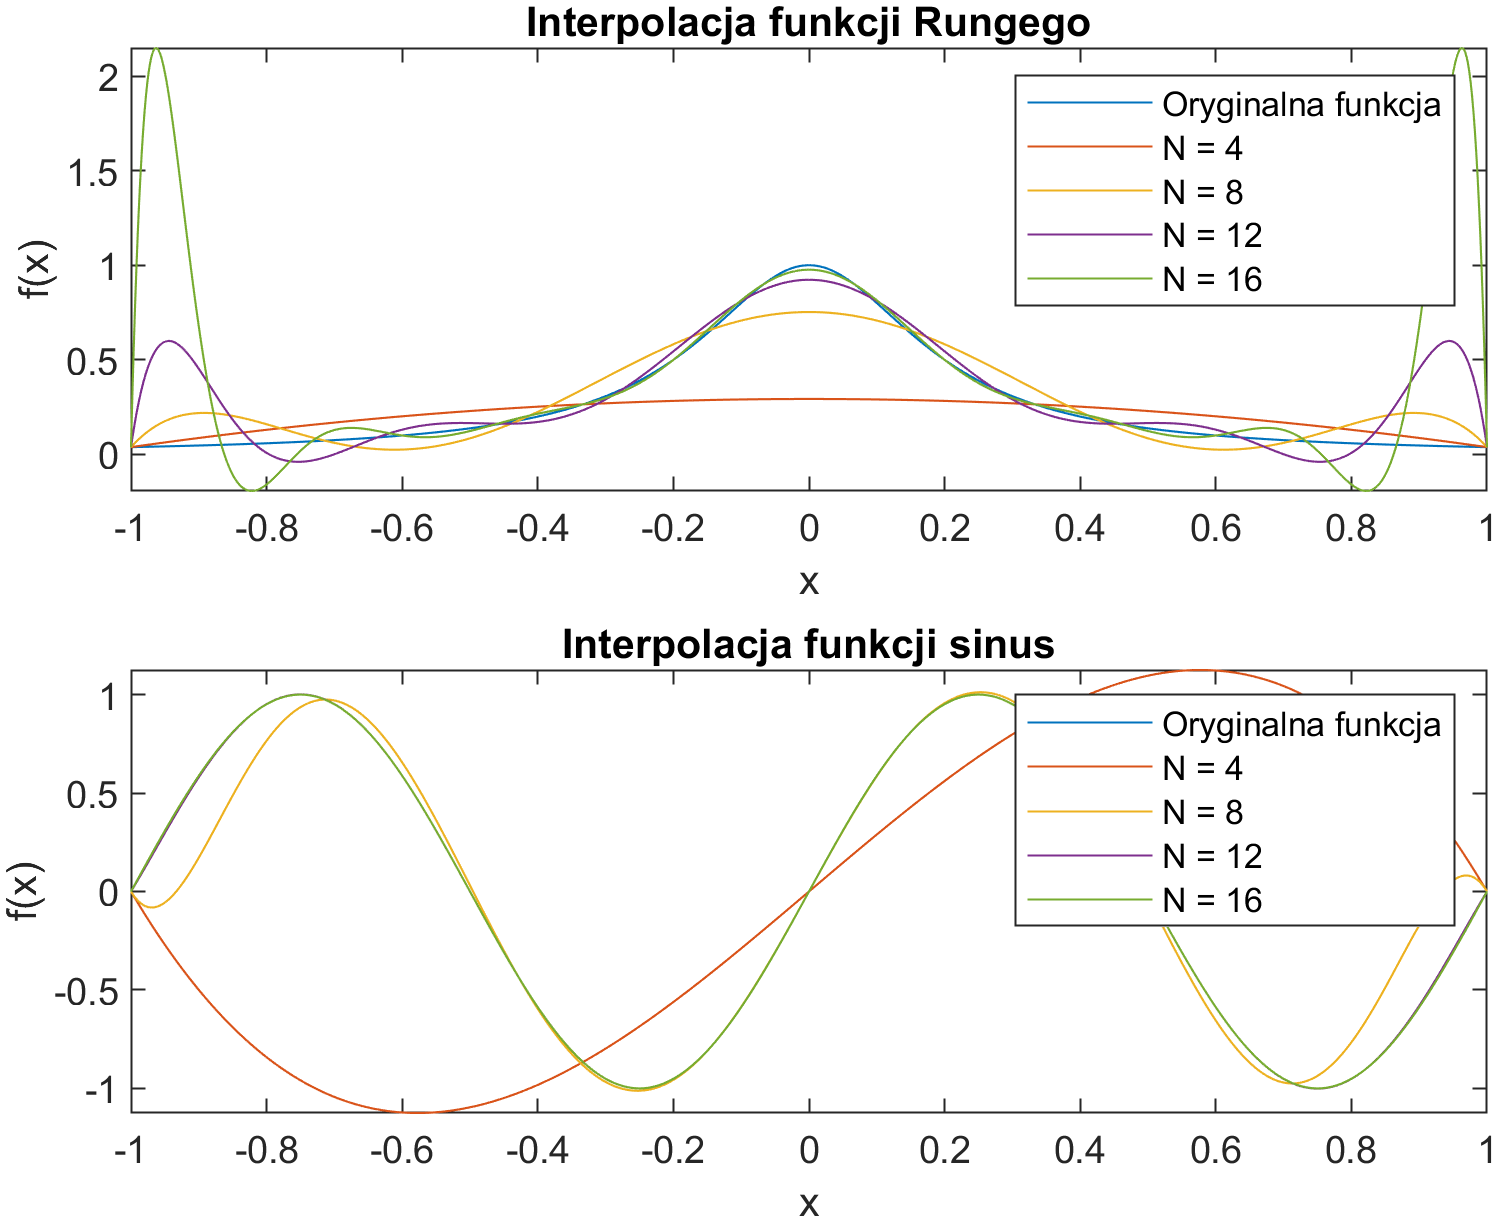
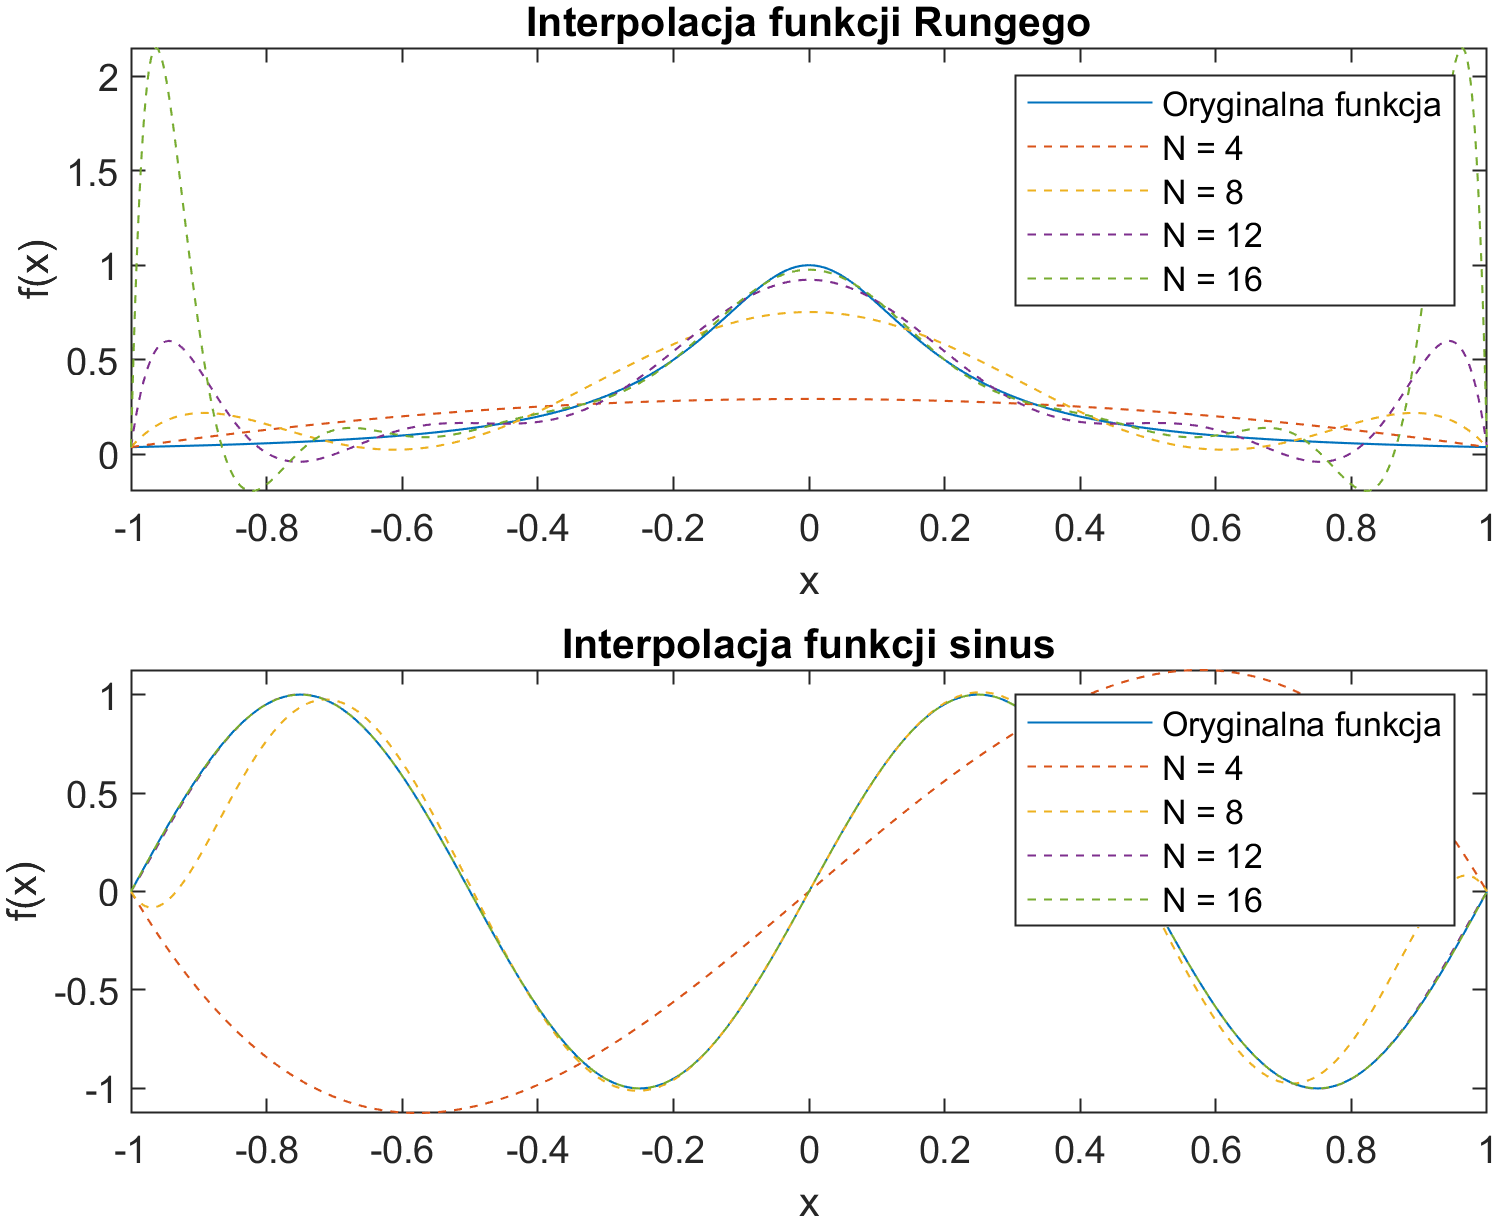
Finish Lab 5

diff --git a/lab5/zadanie3.m b/lab5/zadanie3.m
@@ -21,6 +21,8 @@ function [matrix_condition_numbers, max_coefficients_difference_1, max_coefficie
 	xlabel('N');
 	ylabel('cond(V)');
 	title('Wzrost współczynnika uwarunkowania macierzy Vandermonde wraz ze wzrostem jej rozmiaru');
+	f.Position(3) = 900;
+	f.Position(4) = 450;
 	
 	
 	%% chart 2
@@ -42,8 +44,10 @@ function [matrix_condition_numbers, max_coefficients_difference_1, max_coefficie
 	subplot(3,1,2);
 	plot(N, max_coefficients_difference_1);
 	xlabel('N');
+	ylim padded;
 	ylabel('max|c_{ref} - c_{calc}|');
 	title('Błąd wyznaczenia wartości współczynników wielomianu, dla wektora b zawierającego wartości funkcji liniowej');
+	yticks(0:10:60);
 	
 	%% chart 3
 	max_coefficients_difference_2 = zeros(1, length(N));

diff --git a/lab5/zadanie1.m b/lab5/zadanie1.m
@@ -29,7 +29,7 @@ function [V, original_Runge, original_sine, interpolated_Runge, interpolated_sin
 		c_runge = V{i} \ y_coarse';
 
 		interpolated_Runge{i} = polyval(flipud(c_runge), x_fine); % interpolacja
-		plot(x_fine, interpolated_Runge{i});
+		plot(x_fine, interpolated_Runge{i}, '--');
 	end
 	title('Interpolacja funkcji Rungego');
 	xlabel('x');
@@ -53,7 +53,7 @@ function [V, original_Runge, original_sine, interpolated_Runge, interpolated_sin
 		c_sine = V{i} \ y_coarse';
 
 		interpolated_sine{i} = polyval(flipud(c_sine), x_fine);
-		plot(x_fine, interpolated_sine{i});
+		plot(x_fine, interpolated_sine{i}, '--');
 	end
 	title('Interpolacja funkcji sinus');
 	xlabel('x');

diff --git a/lab5/zadanie2.m b/lab5/zadanie2.m
@@ -50,7 +50,7 @@ end
 
 function nodes = get_Chebyshev_nodes(N)
 	% oblicza N węzłów Czebyszewa drugiego rodzaju
-	nodes = cos(((0:N-1)+1)*pi/(N-1));
+	nodes = cos((0:(N-1))*pi/(N-1));
 end
 
 function V = vandermonde_matrix(N)
